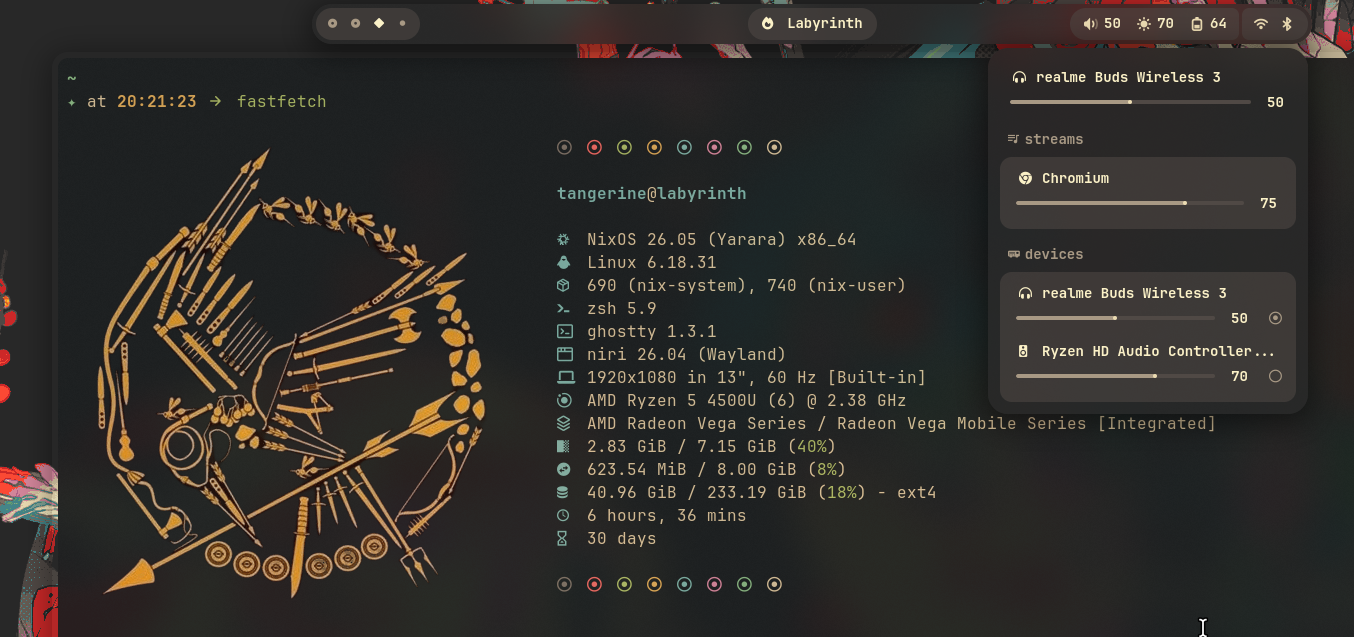
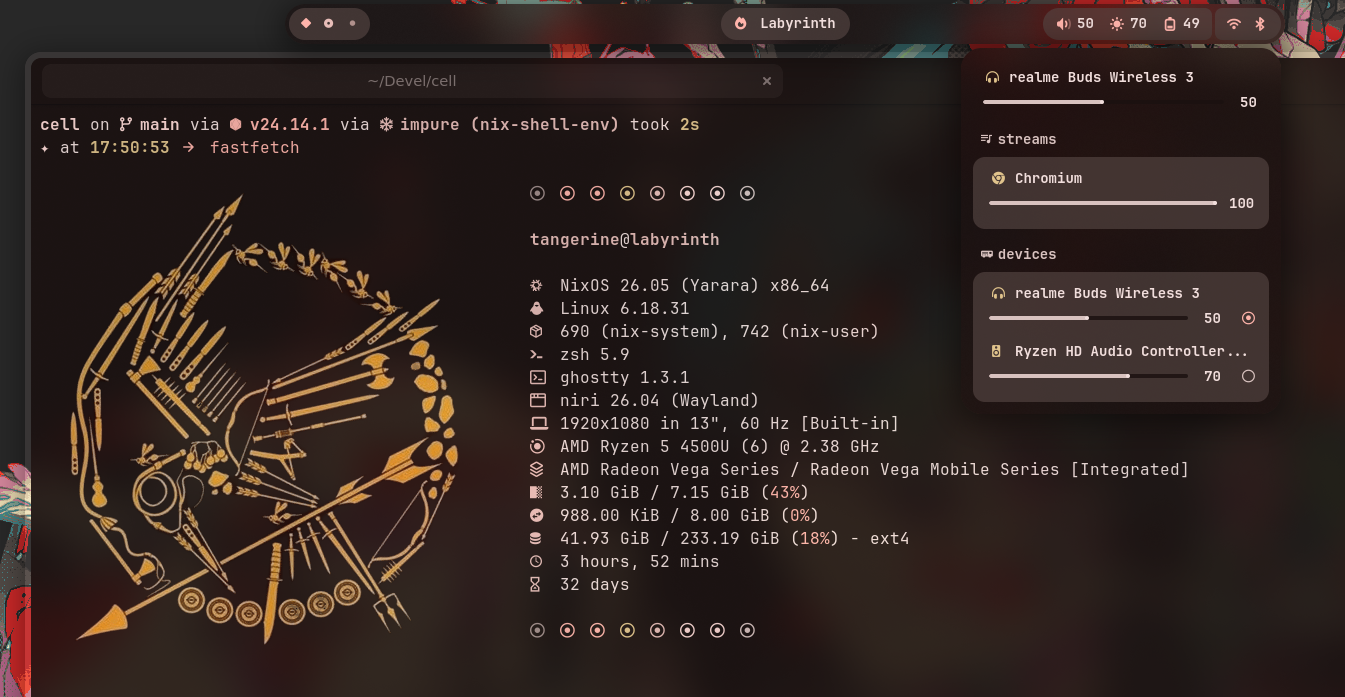
chore: update README

diff --git a/README.md b/README.md
@@ -1,11 +1,9 @@
 # Minos
 
-A minimal AGS-based desktop shell for [Niri](https://github.com/YaLTeR/niri) on Wayland.
-
 Minos is a **personal** shell/bar built with [AGS](https://github.com/Aylur/ags), GTK4, and Astal. It provides a compact top bar, workspace controls, system indicators, and small quick-settings menus intended for a Niri-based NixOS desktop.
 
 > [!NOTE]
-> This is a personal shell and is currently tailored to my setup. You may need to adjust constants in `config.ts`, runtime services, battery ID, styling, or widget behavior for your machine.
+> This is a personal shell and is currently tailored to my setup. You may need to adjust runtime services, battery ID, styling, or widget behavior for your machine.
 
 ## Showcase
 
@@ -19,11 +17,11 @@ Minos is a **personal** shell/bar built with [AGS](https://github.com/Aylur/ags)
 
 ![brightness-controls](./showcase/brightness-controls.png)
 
-![power-profiles](./showcase/power-profiles.png)
+![volume-controls](./showcase/volume-controls.png)
 
 ### Desktop overview
 
-![volume-controls](./showcase/volume-controls.png)
+![full-preview](./showcase/full-preview.png)
 
 ## Features
 
@@ -39,6 +37,7 @@ Minos is a **personal** shell/bar built with [AGS](https://github.com/Aylur/ags)
   - brightness and night light
   - power profiles
   - volume and audio devices
+- Matugen Integration
 - Nix flake package
 - Home Manager module with a systemd user service
 
@@ -177,10 +176,35 @@ nix build
 
 ## Configuration
 
-A few values are currently hard-coded for my setup and can be adjusted in `config.ts`, including:
+Minos is partly configurable via a standard JSON file and supports real-time hot-reloading for colors and a few layout parameters.
 
-- bar width and height
-- menu dimensions and margins
-- battery device ID
+By default, the shell looks for your configuration file at:
+`~/.config/minos/config.json`
 
-For example, if your battery is exposed as `BAT0` instead of `BAT1`, update `BAT_ID` in `config.ts`.
+If the file doesn't exist or a key is missing, Minos automatically falls back to its internal defaults. You only need to define the specific properties you actually want to override.
+
+### Example `config.json`
+If your system exposes your battery as `BAT0` instead of `BAT1`, and you want to inject a custom color palette, your config would look like this:
+```json
+{
+  "general": {
+    "bar_width": 1000,
+    "bar_height": 40,
+    "bar_margin_top": 4,
+    "default_menu_width": 320,
+    "bat_id": "BAT0"
+  },
+  "colors": {
+    "accent-primary": "#c7bfff",
+    "bg-1": "#141318",
+    "fg-1": "#e5e1e9"
+  }
+}
+```
+*(Check `config.ts` for the full list of available color tokens and variables).*
+
+### Dynamic Hot-Reloading
+Minos actively monitors `config.json` in the background. Whenever you update your values, the shell will instantly hot-reload the CSS without requiring a session restart.
+
+> [!NOTE]
+> **For Vim/Neovim users:** By default, Neovim uses atomic saves (deleting and replacing the file), which will kill the background file watcher. To keep hot-reloading active, ensure `vim.opt.backupcopy = "yes"` is set in your editor config.